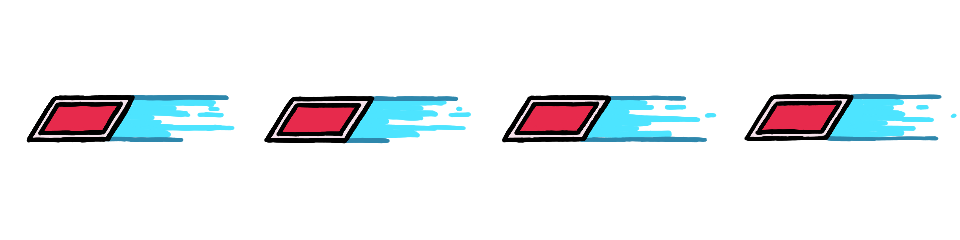
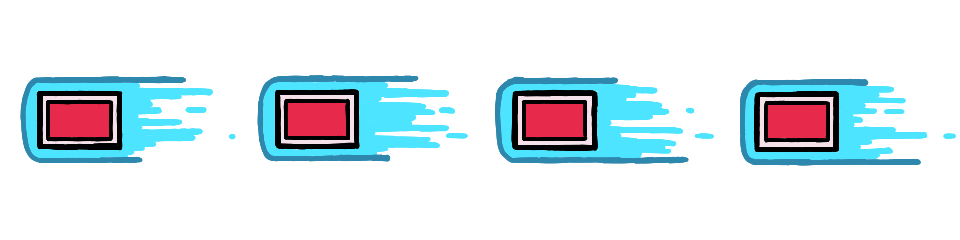
added updated card explosion, fixed enemy jump bug

Changed region(s): [[0.0, 0.2917, 1.0, 0.7]]

diff --git a/src/scenes/Level1Scene.js b/src/scenes/Level1Scene.js
@@ -19,6 +19,9 @@ const PLAYER_HITBOX = {
 const COYOTE_MS = 120;
 // How far in front of the player the melee zone -- and the slash VFX drawn over it -- sits.
 const MELEE_REACH = 30;
+const IMPACT_REACH = 34;
+const IMPACT_Y_OFFSET = 20;
+const IMPACT_SCALE = 0.6;
 // Slash sheets bake to a 192px cell; the player renders at PLAYER_DISPLAY_HEIGHT (96).
 const SLASH_SCALE = 0.6;
 // 1-based frame index at which the blade is extended enough to deal damage. The first
@@ -29,6 +32,7 @@ const MELEE_ACTIVE_FROM = 5;
 // upslash sweeps lower-left to upper-right (right-facing) -- so each carries its own
 // facesRight flag rather than sharing one flip rule. If a swing looks mirrored, flip
 // that sheet's flag; nothing else needs to change.
+const EXPLOSION_SCALE = 0.8;
 const SLASH = {
     down: { texture: 'playermelee',  anim: 'playermelee1', facesRight: false, next: 'up' },
     up:   { texture: 'playermelee2', anim: 'playermelee2', facesRight: false,  next: 'down' }
@@ -142,7 +146,9 @@ export class Level1Scene extends Phaser.Scene {
         this.physics.add.overlap(this.playermeleeattackhitbox, this.enemy, this.meleeHitEnemy, null, this);
         this.physics.add.overlap(this.player, this.enemyAttackHitbox, this.onPlayerInHitbox, null, this);
         this.physics.add.overlap(this.bullets, this.enemy, this.hitEnemy, null, this);
-
+        this.impactVFX = this.add.sprite(0, 0, 'playermeleeimpact');
+        this.impactVFX.setVisible(false);
+        
         // --- Input Setup ---
         this.wasd = this.input.keyboard.addKeys({
             up: Phaser.Input.Keyboard.KeyCodes.SPACE,
@@ -160,8 +166,9 @@ export class Level1Scene extends Phaser.Scene {
         
         // Sounds live on the global manager and don't auto-stop when the scene
         // ends, so kill the track on shutdown to prevent it overlapping the next scene.
-        this.events.once('shutdown', () => this.backgroundMusic.stop());
-
+        this.events.once('shutdown', () => 
+            this.backgroundMusic.stop());
+            this.sound.stopByKey('playerrangedattacksound');
         // --- Debug Tools ---
         this.physics.world.createDebugGraphic();
         this.physics.world.debugGraphic.visible = false;
@@ -190,7 +197,7 @@ export class Level1Scene extends Phaser.Scene {
     // --- Update Loop ---
     update() {
         const body = this.player.body;
-        const onGround = body && (body.touching?.down || body.blocked?.down || body.onFloor && body.onFloor());
+        const onGround = body && (body.blocked?.down || body.onFloor && body.onFloor());
         if (onGround) {
             this.player.lastgroundedtime = this.time.now;
         }
@@ -273,7 +280,7 @@ export class Level1Scene extends Phaser.Scene {
         bullet.setDepth(DEPTH.VFX);
         bullet.flipX = true
         bullet.play('playerrangedattack', true);
-        bullet.setScale(0.9);
+        bullet.setScale(0.7*1.3, 0.9*0.7);
         bullet.setBodySize(10, 10);
         bullet.body.allowGravity = false;
 
@@ -346,7 +353,12 @@ export class Level1Scene extends Phaser.Scene {
         this.player.body.setSize(bw, bh, false);
         // Center horizontally in the frame, add per-animation offset.
         const xOffset = (fw - bw) / 2 + (fh * config.ox);
-        const yOffset = fh * config.oy;
+        // Bottom-align the body in the frame. config.h differs per animation (idle 63/64
+        // vs fall 57/64), so a top-anchored body moves its BOTTOM on every anim swap --
+        // landing (fall -> run) grew the box 6 world px straight down into the floor tile,
+        // and Arcade resolved that penetration by shoving the player up in a single frame.
+        // Bottom-aligning makes those height differences grow upward into empty space.
+        const yOffset = fh * (1 - config.h) + (fh * config.oy);
         this.player.body.setOffset(xOffset, yOffset);
     }
 
@@ -384,7 +396,8 @@ export class Level1Scene extends Phaser.Scene {
         const enemy  = objA.texture.key === 'playerrangedattack' ? objB : objA;
         bullet.body.enable = false;
         bullet.setVelocity(0, 0);
-        bullet.setRotation(bullet.fireAngle + Math.PI / 2);
+        bullet.setRotation(Math.random() * Math.PI * 2);
+        bullet.setScale(EXPLOSION_SCALE);
         bullet.play('playerrangedattackexplosion');
 
         bullet.once('animationcomplete-playerrangedattackexplosion', () => {
@@ -431,9 +444,12 @@ export class Level1Scene extends Phaser.Scene {
 
     destroyBulletOnPlatform(bullet) {
         if (bullet && bullet.active) {
+            
             bullet.body.enable = false;
+            
             bullet.setVelocity(0, 0);
-            bullet.setRotation(bullet.fireAngle + Math.PI / 2);
+            bullet.setRotation(Math.random() * Math.PI * 2);
+            bullet.setScale(EXPLOSION_SCALE);
             bullet.play('playerrangedattackexplosion');
             bullet.once('animationcomplete-playerrangedattackexplosion', () => {
                 bullet.destroy();

diff --git a/src/scenes/BootScene.js b/src/scenes/BootScene.js
@@ -29,6 +29,7 @@ export class BootScene extends Phaser.Scene {
         this.load.image('playermelee_src', 'assets/downslash.png');
         this.load.image('playermelee2_src', 'assets/upslash.png');
         this.load.image('rangedattackexplosion_src', 'assets/rangedattackexplosion.png');
+        this.load.image('playermeleeimpact_src', 'assets/meleeimpact.png');
 
         // --- Enemy Spritesheets ---
         this.load.spritesheet('enemyidle', 'assets/Enemy3-Idle.png', {
@@ -104,7 +105,10 @@ export class BootScene extends Phaser.Scene {
             cols: 4, rows: 2, srcW: 720, srcH: 720, dstW: 192, dstH: 192
         });
         this.bakeSheet('rangedattackexplosion_src', 'rangedattackexplosion', {
-            cols: 4, rows: 2, srcW: 240, srcH: 200, dstW: 64, dstH: 64
+            cols: 4, rows: 2, srcW: 240, srcH: 240, dstW: 64, dstH: 64, count: 6
+        });
+        this.bakeSheet('playermeleeimpact_src', 'playermeleeimpact', {
+            cols: 4, rows: 2, srcW: 240, srcH: 240, dstW: 64, dstH: 64
         });
 
         // --- Player Animations ---
@@ -149,8 +153,14 @@ export class BootScene extends Phaser.Scene {
         this.anims.create({
             key: 'playerrangedattack',
             frames: this.anims.generateFrameNumbers('playerrangedattack', { start: 0, end: 3 }),
-            frameRate: 10,
+            frameRate: 24,
             repeat: -1
+        });
+        this.anims.create({
+            key: 'playermeleeimpact',
+            frames: this.anims.generateFrameNumbers('playermeleeimpact', { start: 0, end: 7 }),
+            frameRate: 20,
+            repeat: 0
         });
 
         // --- Enemy Animations ---
@@ -195,7 +205,7 @@ export class BootScene extends Phaser.Scene {
         this.anims.create({
             key: 'playerrangedattackexplosion',
             frames: this.anims.generateFrameNumbers('rangedattackexplosion', { start: 0, end: 25 }),
-            frameRate: 40,
+            frameRate: 18,
             repeat: 0
         });
 

diff --git a/CLAUDE.md b/CLAUDE.md
@@ -38,6 +38,9 @@ identical regardless of `RES`:
 - The gameplay camera **zooms by `RES`**.
 - Screen-space text **scales its font size by `RES`**.
 
+`RES` is only ever a clean `1` or `2` on the Macs this was developed on. It is **not** clean
+elsewhere — see Packaging for why that becomes a problem the moment this leaves a browser.
+
 ## Assets & Animations
 
 - **All loading and animation registration happens once in `BootScene`.** Animations live on
@@ -53,6 +56,17 @@ identical regardless of `RES`:
     cropped *and* pulls in slices of its neighbours. If a baked animation looks zoomed-in with
     bits of other frames intruding, check these numbers against `cols*srcW x rows*srcH` — it must
     equal the PNG's real dimensions.
+  - **The bake quality is browser-dependent.** `imageSmoothingQuality = 'high'` is the whole point
+    of the function, and **Firefox has never implemented it** — the assignment is a silent no-op,
+    so Firefox falls back to plain bilinear. At a 3.75x reduction (720 -> 192) bilinear samples
+    ~2x2 source pixels and discards the rest, which is exactly the undersampling grain this
+    function exists to remove. Chrome/Edge/Safari honour it. If a portable fix is ever needed,
+    bake in halving steps (720 -> 360 -> 192) instead of one jump: successive 2x reductions
+    approximate a box filter and look the same in every engine. Moot once we ship on Electron
+    (see Packaging), which bundles one Chromium.
+  - **The `_src` images stay resident after baking and nothing draws them again.** The eight
+    sources total ~34 MP, so ~135 MB of decoded RGBA plus a GPU copy each. `this.textures.remove(srcKey)`
+    at the end of `bakeSheet` reclaims both. Harmless on desktop, matters on low-RAM devices.
 - The player renders every animation at a constant on-screen height via `syncPlayerSize()`,
   which recomputes scale + physics body from the current frame on each animation change (the
   sheets have different native resolutions).
@@ -91,7 +105,23 @@ identical regardless of `RES`:
   instead of tracking. At `setZoom(RES)` each stalled world pixel is `RES` screen px of apparent
   player displacement, which shows up as a **ghosted second copy of the player during fast motion**
   (most visible on jumps at 500px/s; ordinary running at 200px/s hides it). The game-config
-  `render: { roundPixels: true }` is the same trap — `CameraManager` pushes it onto every camera.
+  `render: { roundPixels: true }` is the same trap — `CameraManager` pushes it onto every camera,
+  and `pixelArt: true` sets `roundPixels` implicitly, so it's the same bug one step removed.
+- **The player's physics body must stay BOTTOM-anchored in the frame** — this produces the *same
+  ghosting symptom* as the `roundPixels` trap above and is easily mistaken for it. `config.h` in
+  `PLAYER_HITBOX` differs per animation (idle 63/64, run 61/64, fall/rise 57/64) while every sheet
+  bakes to the same 192px cell, so `fh` and the 0.5 scale are constant and **only the body height
+  changes on an anim swap**. With `yOffset = fh * config.oy` (i.e. `0`) the body's top was pinned
+  and its bottom moved: landing (`playerfall` -> `playerrun`) grew the box 6 world px *downward*
+  into the floor tile, and Arcade resolved the penetration by shoving the player up in one frame —
+  12-18 screen px at `setZoom(RES)`. Hence `yOffset = fh * (1 - config.h) + (fh * config.oy)`.
+  - **Telling the two apart:** the camera bug ghosts *everything* (tilemap and enemy included); this
+    one is **player-only**, because only the player's body is being resized. It also fires on
+    landings rather than continuously during fast motion, and is intermittent — a mid-air swap
+    resizes into empty space and separates nothing, so only swaps that overlap a tile pop.
+  - This is the vertical twin of the horizontal bug already fixed in `syncPlayerSize` (sizing the
+    body from frame *width* made boxes jump sideways). Deriving from `fh` fixed X; Y needed the
+    anchor change.
 - **Coyote time (`groundedRecently`) must gate jump *permission* only, never animation state.**
   `lastgroundedtime` is refreshed on the same frame a jump fires, so `groundedRecently` stays true
   for `COYOTE_MS` while the player is already ascending. Air animations therefore test the raw
@@ -99,3 +129,86 @@ identical regardless of `RES`:
   and run/idle plays in mid-air until coyote time expires, with `playerrise` starting ~120ms late.
   The `FALL_VELOCITY` dead zone (no branch matches between -100 and +100 px/s) is deliberate: it
   lets rise carry through the jump apex instead of flickering into fall.
+- **`onGround` must test `blocked.down`, NEVER `touching.down`.** Arcade stamps the contact faces
+  in `separateY`/`separateX` *before* the `overlapOnly` early-return, so a plain `overlap()` — which
+  separates nothing and moves nothing — still sets `touching.down`/`touching.up` on both bodies.
+  The player carries `overlap(player, enemyAttackHitbox)`, and that zone is a tall column spanning
+  from just under the enemy all the way to the floor (`smashHeight` = distance to ground), so
+  descending anywhere beneath the boss set `touching.down` and the old `onGround` believed it.
+  - **Coyote time turns one bogus frame into a real exploit.** A single spurious contact refreshes
+    `lastgroundedtime`, which grants `groundedRecently` for the full `COYOTE_MS` — so the jump gate
+    hands out a free mid-air jump for 120ms, repeatedly, anywhere inside that column.
+  - **Symptom signature:** SPACE produces a y-gain mid-air but the player does **not** visibly
+    switch to run/idle. That combination is diagnostic, and it looks like a collision-group mistake
+    when it isn't. It happens because the two gates read different things on purpose (see the coyote
+    entry above): the animation branches test raw `onGround`, which is true for a single ~16ms frame
+    and invisible, while the jump gate tests `groundedRecently`, which stays true for 120ms.
+  - Tile and world-bounds collisions set `blocked`, not `touching`, so `blocked.down` covers every
+    real ground contact here. `body.onFloor()` just returns `blocked.down` internally.
+  - **If a solid moving platform is ever added as a physics body** (rather than a tile), body-vs-body
+    collision sets `touching`, not `blocked`, so it would not register as ground under this test.
+    Track that contact explicitly in the platform's collider callback — do **not** reinstate
+    `touching.down`, or this bug comes straight back.
+
+## Packaging (planned: Electron -> Steam, PC only)
+
+The intended destination is a **Windows-only Electron build on Steam**. Nothing is set up yet —
+there is no `package.json` in the project, and it still deploys as a static folder. These are the
+conclusions from scoping it, recorded so they don't get re-derived.
+
+- **The game code itself needs no porting.** All four scenes were grepped for `window`, `document`,
+  `localStorage`, `navigator`, and `fetch`: zero hits. Everything goes through Phaser (`this.sound`,
+  `this.input`, `this.scale`, `this.textures`). The only direct browser API in the project is
+  `window.devicePixelRatio` in `constants.js`. Electron runs Chromium and the game already runs in
+  Chromium, so pointing it at `index.html` is genuinely the whole port.
+- **`file://` will black-screen the first build.** Electron loads from `file://` by default, which
+  breaks two things at once: the `07.tmj` tilemap load is XHR and gets blocked by `webSecurity`, and
+  the player sheets taint the canvas so `bakeSheet`'s `tex.refresh()` throws a `SecurityError` trying
+  to upload a tainted canvas to WebGL. Fix by registering a custom `app://` protocol as standard +
+  secure in the main process. Do **not** reach for `webSecurity: false`. This is the first thing to
+  solve — everything else is downstream of the app actually rendering.
+- **`RES` must stop deriving from `devicePixelRatio` once packaged.** Windows display scaling is
+  routinely 125% / 150% / 175% and is the factory default on most laptops, so `RES` lands on `1.25`
+  or `1.5` and the gameplay camera gets `setZoom(1.5)`. A fractional zoom over a tilemap is the
+  standard recipe for seams and shimmer between tiles, and it interacts with the deliberately-`false`
+  `roundPixels` above. **This has never been seen in testing** — development has only ever hit
+  `RES` 1 or 2. In a packaged app we own the window, so the fix is to pin the render resolution to a
+  fixed value and let `Scale.FIT` do the rest, which also kills the related multi-monitor bug (`RES`
+  is computed once at module load, so dragging between mixed-DPI displays never updates it).
+- **Two things get better for free.** `titlemusic.play()` in `MenuScene.create()` currently runs with
+  no user gesture, so browsers suspend it until first click; Electron's
+  `autoplayPolicy: 'no-user-gesture-required'` makes it just play. And official Electron builds ship
+  proprietary codecs, so the MP3s load — which matters given the black-screen-on-failed-`sound.add()`
+  gotcha above.
+
+### Steam specifics
+
+- **No code signing needed.** Steam ships through its own client, so Windows builds face no
+  SmartScreen wall — no certificate, no reputation period. (The signing/notarization cost is a macOS
+  concern, which PC-only avoids entirely.)
+- **The Steam Overlay is the real risk.** The overlay hooks the render pipeline, Chromium renders in
+  a separate GPU process via ANGLE, and the two often don't cooperate — the overlay silently fails to
+  appear in Electron apps, taking Shift+Tab, screenshots, and achievement toasts with it. Usually
+  fixable with launch flags (`--in-process-gpu` first, sometimes `--disable-gpu-sandbox` or a forced
+  `--use-angle=d3d11`), but the working combination varies by machine. **Test on real Windows
+  hardware early**, not near launch.
+- **Use `steamworks.js`, not `greenworks`.** Most tutorials point at greenworks; it's unmaintained.
+  Either way it's a native module, so it rebuilds per Electron ABI version.
+- **Logistics:** $100 Steam Direct per app (recoupable at $1k revenue), and Valve requires a **30-day
+  minimum** between the store page going live and release. Builds upload via `steamcmd`/SteamPipe.
+- **Shippable-vs-runs gap** is the options menu, fullscreen toggle, volume control, and key rebinding
+  — not the packaging.
+
+## Known issues (unfixed)
+
+- **`rangedattackexplosion` bakes with the wrong cell height.** `BootScene` passes `srcH: 200`, but
+  `rangedattackexplosion.png` is 960x480 — a 4x2 grid of **240x240**, not 240x200. Row 1 is read from
+  y=200 instead of y=240, so the bottom row is cropped and offset. Same class of mistake as the
+  `srcW`/`srcH` warning above.
+- **The explosion animation asks for frames that don't exist.** `playerrangedattackexplosion` uses
+  `generateFrameNumbers({ start: 0, end: 25 })`, but that bake only registers `cols*rows` = 8 frames.
+- **`rangedattackexplosion_src` is loaded twice** in `preload()` (Player VFX block and again under
+  VFX / Projectiles). Harmless, but Phaser warns.
+
+Every other sheet's `cols*srcW x rows*srcH` was verified against the real PNG dimensions — the
+explosion is the only mismatch.
